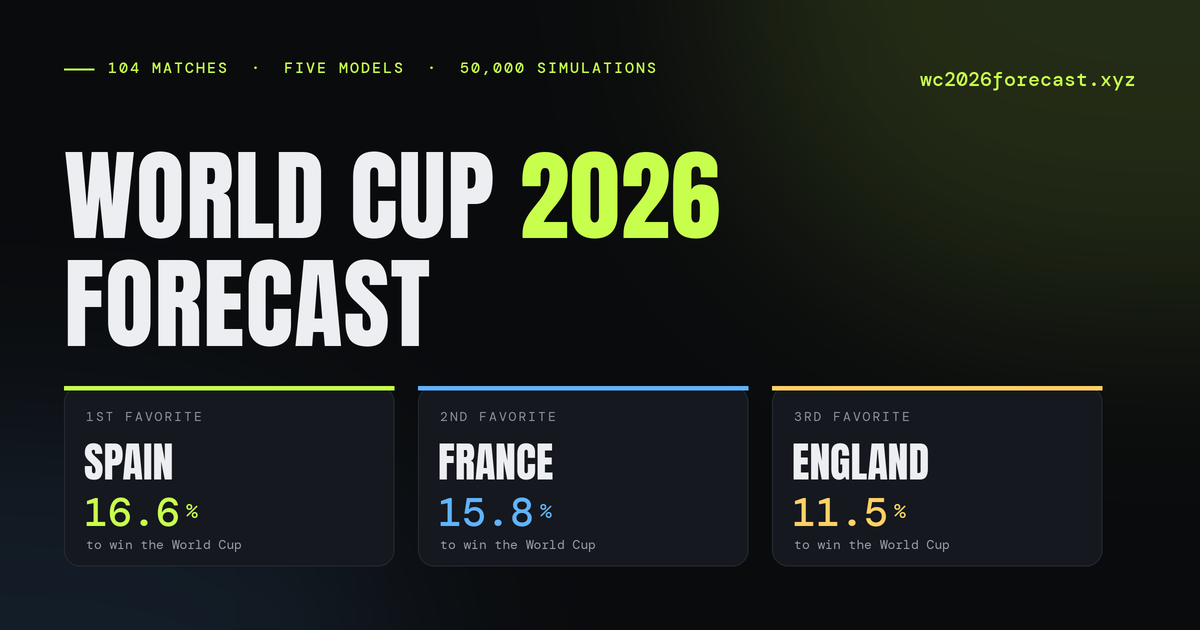
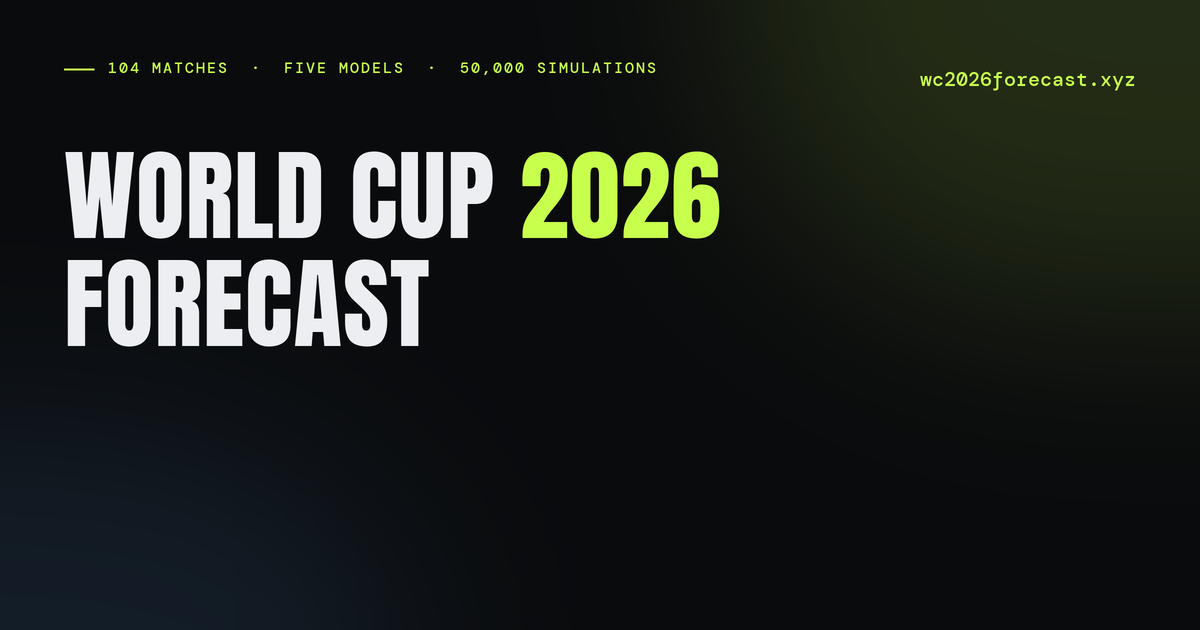
OG card: drop the title-odds podium, keep just the title
The share card showed Spain 16.6 / France 15.8 / England 11.5, the live title odds, which
go stale as soon as games are played. Remove the podium so the card stays evergreen: the
kicker, the WORLD CUP 2026 FORECAST title, and the URL, nothing that dates. Regenerated
og.png (1200x630).

diff --git a/source/make_og.py b/source/make_og.py
@@ -69,21 +69,8 @@ def main():
     tracked(d, (x, ty), "2026", tf, LIME, track=1)
     tracked(d, (P, ty+108*S), "FORECAST", tf, TXT, track=1)
 
-    # podium: three favorites, like the app
-    pods = [("1ST", "SPAIN", "16.6", LIME), ("2ND", "FRANCE", "15.8", BLUE), ("3RD", "ENGLAND", "11.5", GOLD)]
-    cw, gap = 330*S, 24*S
-    px0, ch = P, 180*S
-    py = H - P - ch
-    for i,(rk,team,pct,col) in enumerate(pods):
-        x0 = px0 + i*(cw+gap)
-        d.rounded_rectangle([x0, py, x0+cw, py+ch], radius=16*S, fill=SURF, outline=LINE, width=1*S)
-        d.rectangle([x0, py, x0+cw, py+4*S], fill=col)
-        tracked(d, (x0+22*S, py+22*S), rk+" FAVORITE", monor(13), FAINT, track=2)
-        d.text((x0+20*S, py+44*S), team, font=anton(42), fill=TXT)
-        d.text((x0+20*S, py+100*S), pct, font=mono(40), fill=col)
-        pw = d.textlength(pct, font=mono(40))
-        d.text((x0+20*S+pw+6*S, py+112*S), "%", font=mono(20), fill=col)
-        d.text((x0+22*S, py+150*S), "to win the World Cup", font=monor(13), fill=MUT)
+    # The title-odds podium is intentionally NOT drawn here: those percentages go stale as
+    # soon as games are played, so they make a poor evergreen share image. Just the title.
 
     # url, bottom-right of the header
     url = "wc2026forecast.xyz"